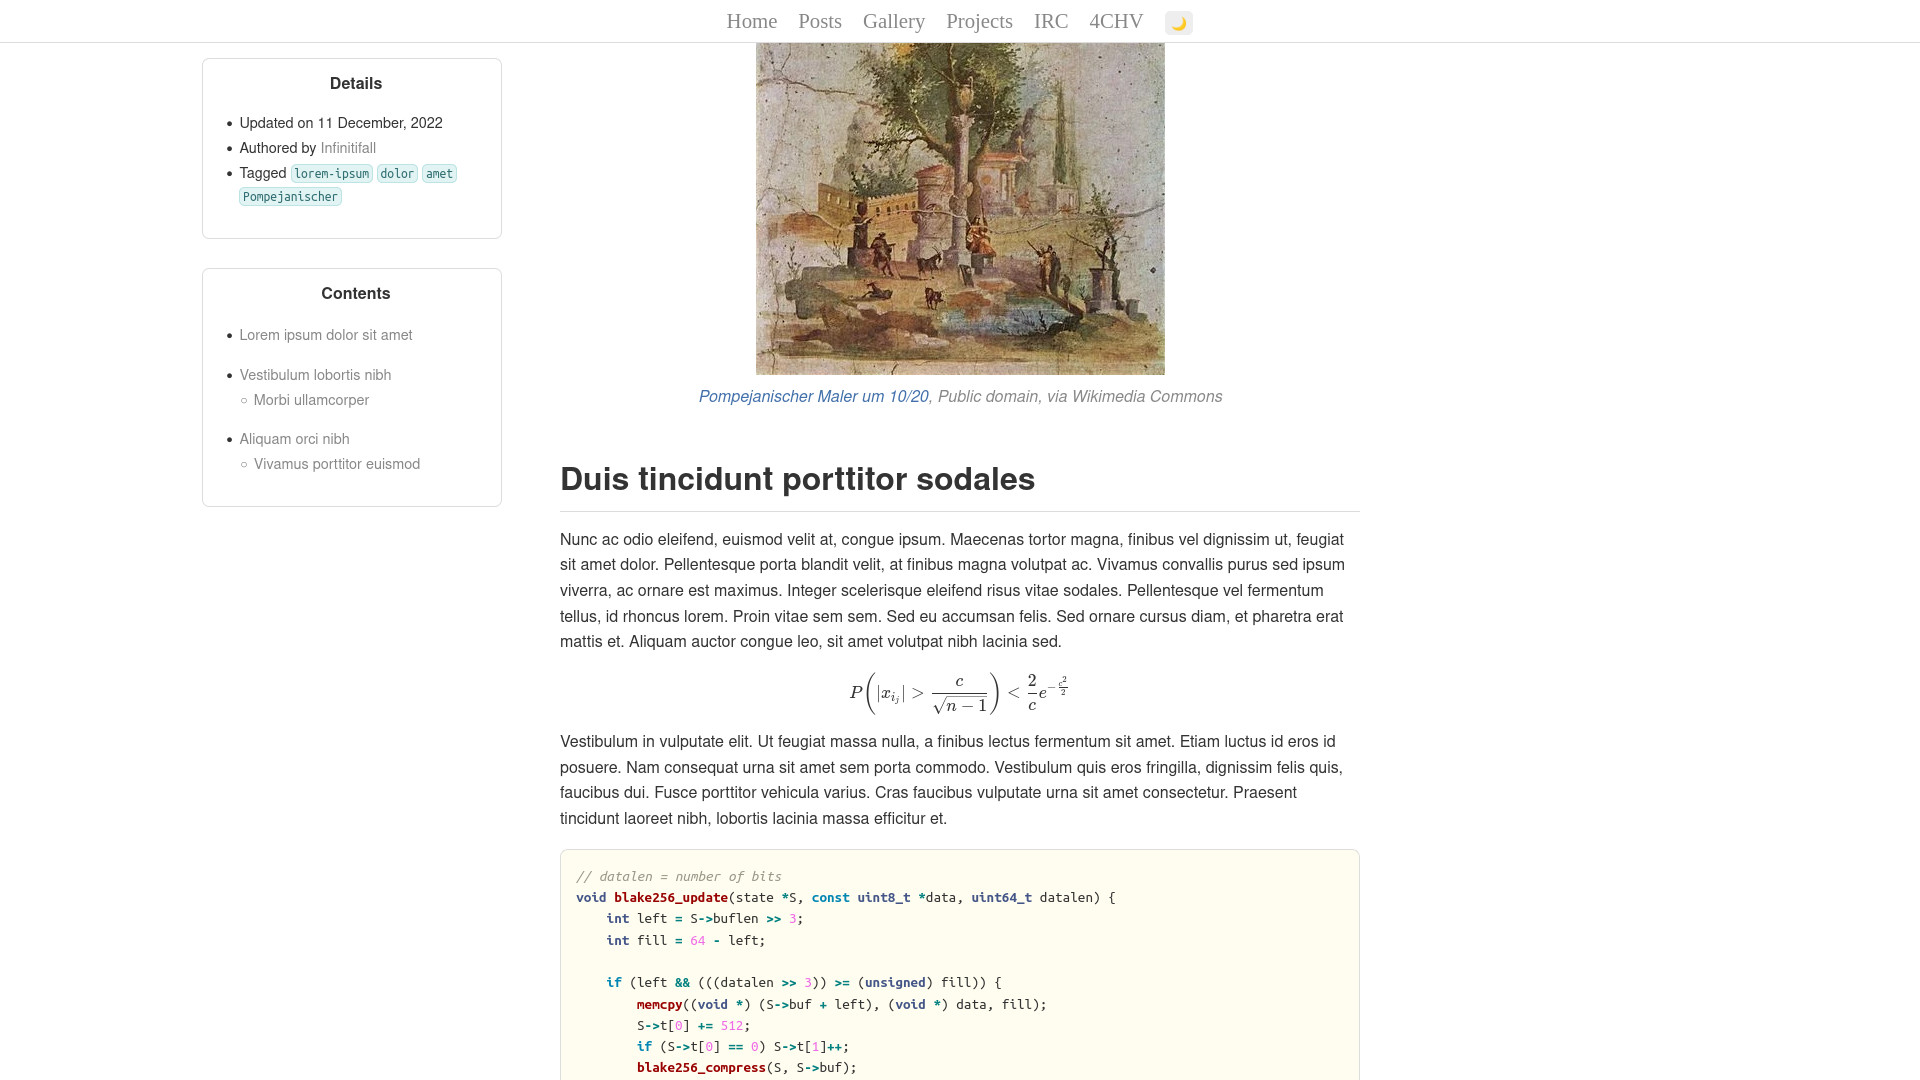
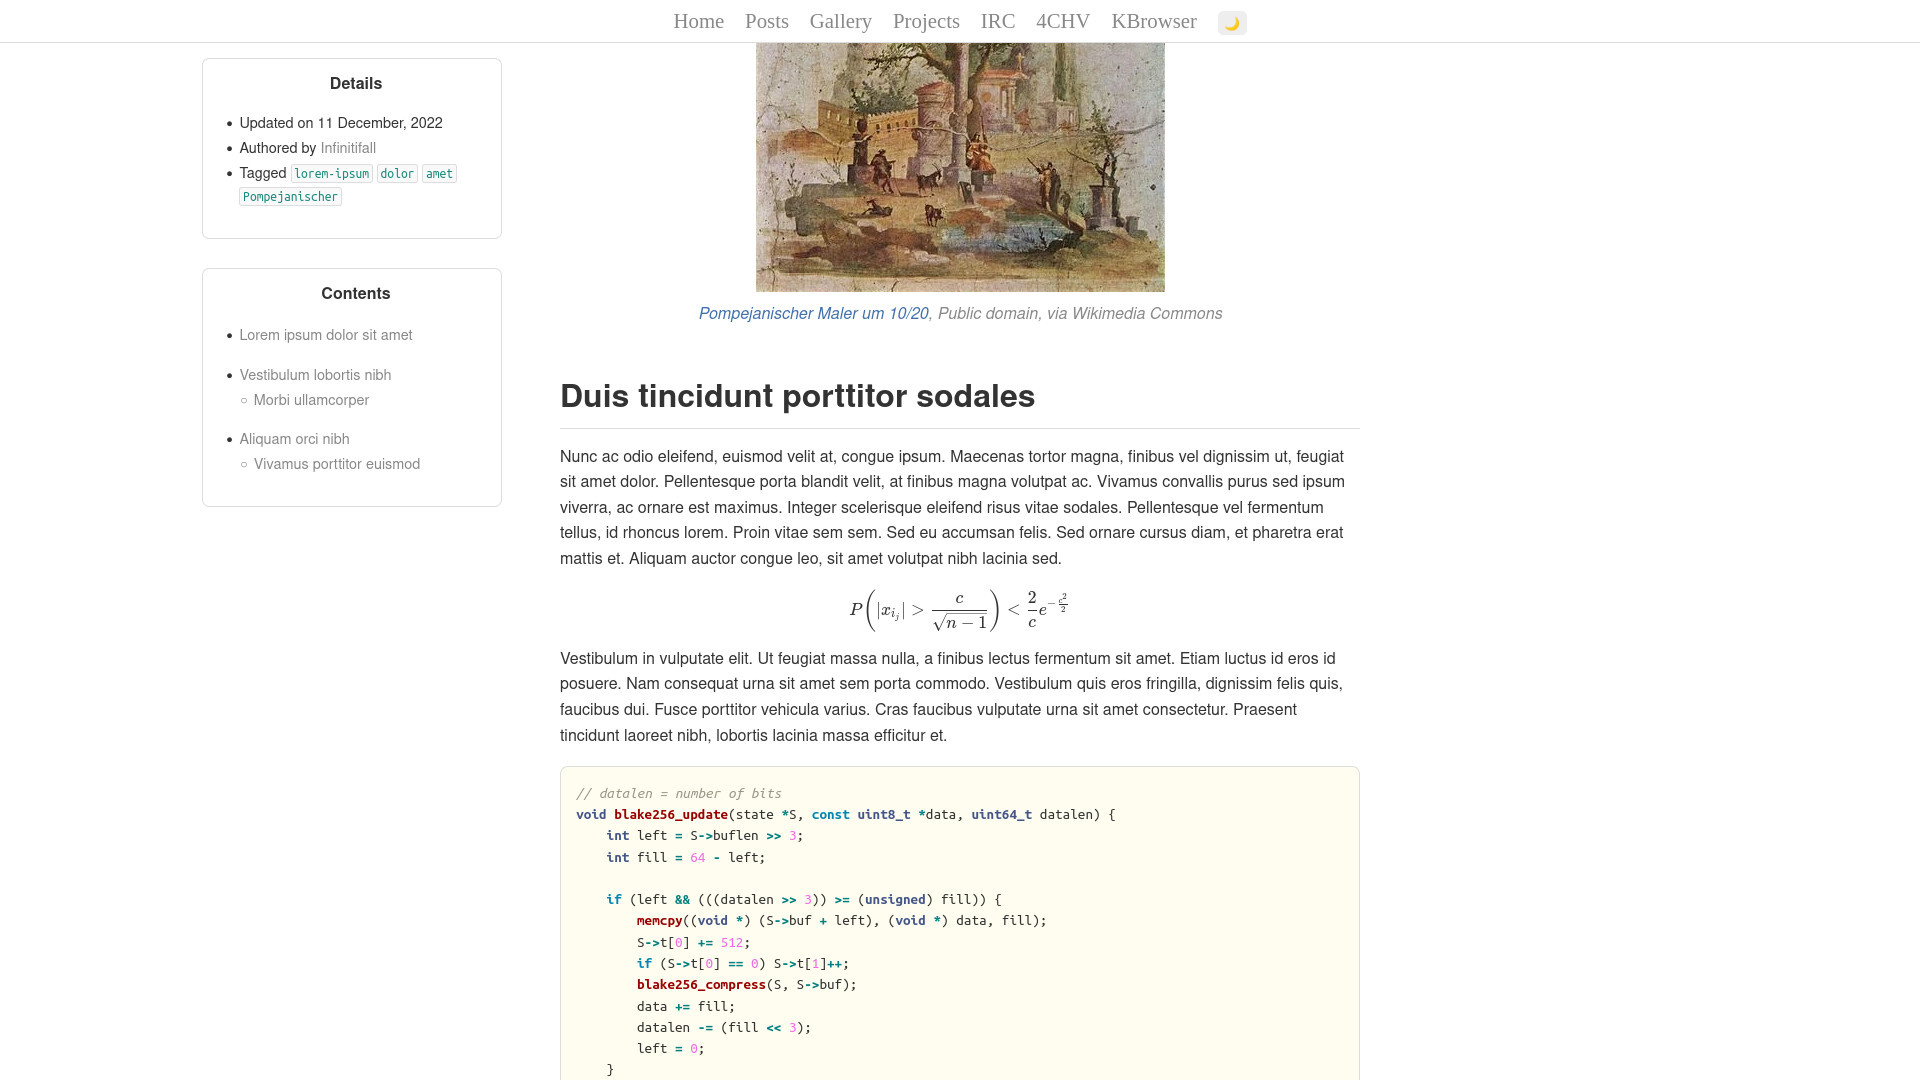
refined style

Changed region(s): [[0.2812, 0.0, 0.7188, 1.0], [0.125, 0.1528, 0.25, 0.2139]]

diff --git a/assets/scss/malis/_layout.scss b/assets/scss/malis/_layout.scss
@@ -91,7 +91,7 @@
     font-size: $tag-font-size;
     color: $code-tag;
     background-color: $bg-tag;
-    border: 1px darken($bg-tag, 10%) solid;
+    border: 1px $bg-pre-border solid;
   }
 
   .page-title {
@@ -153,7 +153,7 @@
       font-size: $tag-font-size;
       color: $code-tag;
       background-color: $bg-tag;
-      border: 1px darken($bg-tag, 10%) solid;
+      border: 1px $bg-pre-border solid;
     }
   }
 
@@ -260,6 +260,8 @@
       border: 1px solid $bg-1;
       border-radius: 0.5em;
       padding: 1em 1em 1em 1.5em;
+      background-color: $bg-sidebar;
+      border: 1px solid $bg-sidebar-border;
     }
 
     .post-toc {
@@ -267,6 +269,8 @@
       border: 1px solid $bg-1;
       border-radius: 0.5em;
       padding: 1em 1em 1em 1.5em;
+      background-color: $bg-sidebar;
+      border: 1px solid $bg-sidebar-border;
   
       max-height: calc(100vh - 3em - 2em - 4em - 4em - 7em);
       overflow-y: auto;
@@ -427,7 +431,7 @@
     font-size: $tag-font-size-dark;
     color: $code-tag-dark;
     background-color: $bg-tag-dark;
-    border: 1px transparent solid;
+    border: 1px $bg-pre-border-dark solid;
   }
 
   .page-title {
@@ -489,7 +493,7 @@
       font-size: $tag-font-size-dark;
       color: $code-tag-dark;
       background-color: $bg-tag-dark;
-      border: 1px transparent solid;
+      border: 1px $bg-pre-border-dark solid;
     }
 
     .post-tags-list {
@@ -596,7 +600,8 @@
       border: 1px transparent solid;
       border-radius: 0.5em;
       padding: 1em 1em 1em 1.5em;
-      background-color: $bg-highlight-dark;
+      background-color: $bg-sidebar-dark;
+      border: 1px solid $bg-sidebar-border-dark;
     }
 
     .post-toc {
@@ -604,7 +609,8 @@
       border: 1px transparent solid;
       border-radius: 0.5em;
       padding: 1em 1em 1em 1.5em;
-      background-color: $bg-highlight-dark;
+      background-color: $bg-sidebar-dark;
+      border: 1px solid $bg-sidebar-border-dark;
   
       max-height: calc(100vh - 3em - 2em - 4em - 4em - 7em);
       overflow-y: auto;

diff --git a/assets/scss/malis.scss b/assets/scss/malis.scss
@@ -125,11 +125,11 @@ $grey-text: #888;
 $link-1: #4270ab;
 $link-2: #4270ab;
 
-$code-1: #612f70;
-$bg-code:#f0e1f3;
+$code-1: #d1224e;
+$bg-code:#f9f9f9;
 
-$code-tag: #2f6e70;
-$bg-tag:#e1f3f3;
+$code-tag: #1d8b7c;
+$bg-tag:#f9f9f9;
 
 $bg-0:   #fff;
 $bg-1:   #ddd;
@@ -138,6 +138,8 @@ $bg-highlight:   #fffdef;
 $bg-quote:   #f4f4f4;
 $bg-table: #fffdef;
 $bg-pre-border: #ddd;
+$bg-sidebar: #fff;
+$bg-sidebar-border: #ddd;
 
 $button-1: #8638b0;
 $button-1-bg: #eee;
@@ -178,23 +180,25 @@ $katex-font-size-dark:  $base-font-size * 1.1;
 
 $heading-text-dark: #ccc;
 $base-text-dark: #ccc;
-$grey-text-dark: #999;
+$grey-text-dark: #777;
 $link-1-dark: #be4f47;
-$link-2-dark: #abd8e3;
+$link-2-dark: #be4f47;
 
-$code-1-dark: #c5adcc;
-$bg-code-dark:#383045;
+$code-1-dark: #c483b6;
+$bg-code-dark:#1a1a1a;
 
-$code-tag-dark: #b6c6a7;
-$bg-tag-dark:#314241;
+$code-tag-dark: #8dbeba;
+$bg-tag-dark:#1a1a1a;
 
-$bg-0-dark:   #242220;
-$bg-1-dark:   #444;
-$bg-highlight-dark:   #1d1b1a;
+$bg-0-dark:   #232220;
+$bg-1-dark:   #333;
+$bg-highlight-dark:   #1f1d1b;
 
-$bg-quote-dark:   #1c1b1a;
-$bg-table-dark: #181818;
+$bg-quote-dark:   #1f1d1b;
+$bg-table-dark: #1f1d1b;
 $bg-pre-border-dark: #2d2d2d;
+$bg-sidebar-dark: #201f1c;
+$bg-sidebar-border-dark: #1c1c1c;
 
 $button-1-dark: #9371b8;
 $button-1-bg-dark: #111;

diff --git a/assets/scss/malis/_base.scss b/assets/scss/malis/_base.scss
@@ -83,8 +83,8 @@
     font-weight: $code-font-weight;
     background-color: $bg-code;
     padding: 0.05em 0.2em;
-    border-radius: 0.4em;
-    border: 1px darken($bg-code, 10%) solid;
+    border-radius: 0.2em;
+    border: 1px $bg-pre-border solid;
   }
 
   figure {
@@ -287,8 +287,8 @@
     font-weight: $code-font-weight-dark;
     background-color: $bg-code-dark;
     padding: 0.05em 0.2em;
-    border-radius: 0.4em;
-    border: 1px transparent solid;
+    border-radius: 0.2em;
+    border: 1px $bg-pre-border-dark solid;
   }
 
   figure {

diff --git a/layouts/post/list.html b/layouts/post/list.html
@@ -4,11 +4,11 @@
 	<li class="post-list">
 		{{ if and (isset .Params "updated") (gt ((.Params.updated | time).Unix) (.Date.Unix))}}
 		<div class="post-date">
-			{{ (.Params.updated | time).Format "02 January, 2006" }}
+			{{ (.Params.updated | time).Format "02 Jan, 2006" }}
 		</div>
 		{{else }}
-		<div>
-			{{ .Date.Format "02 January, 2006" }}
+		<div class="post-date">
+			{{ .Date.Format "02 Jan, 2006" }}
 		</div>
 		{{ end }}
 		<h2 class="post-title"><a href="{{ .RelPermalink }}">{{ .Title }}</a></h2>
